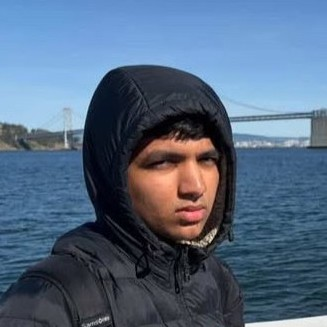
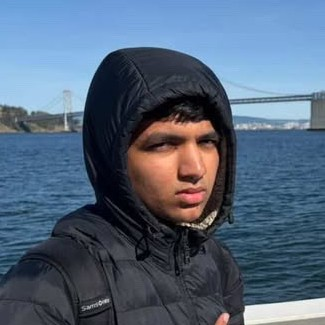
caresasd

diff --git a/index.html b/index.html
@@ -1260,7 +1260,7 @@
           <p>Weapons, movement, gun mechanics, damage systems, core gameplay programming, website, general designing</p>
         </div>
         <div class="team-card">
-          <div class="team-avatar" style="background: url('images/image.jpg') center/cover no-repeat;"></div>
+          <div class="team-avatar" style="background: url('images/parth.jpg') center/cover no-repeat;"></div>
           <h4>Parth</h4>
           <p class="team-role">Website, Assets & Design</p>
           <p>Asset Store publishing, core gameplay programing, website, creative direction.</p>
